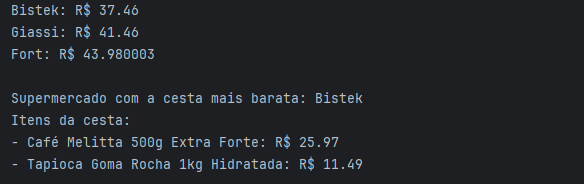
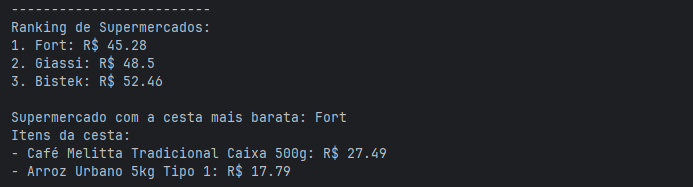
Atualiza a seção 'Demonstração de Uso' do relatório do projeto 2

diff --git a/relatorio-projeto2.md b/relatorio-projeto2.md
@@ -153,14 +153,16 @@ Uma outra alternativa para executar o programa é utilizar este comando no termi
 ./gradlew run
 ```
 
-
-
 ## Demonstração de Uso
 
-Cria uma cesta e adiciona alguns produtos:
+Adiciona alguns produtos na cesta:
 
 <img src="/img/exemplo-parte-1.png">
 
 Saída esperada:
 
 <img src="/img/exemplo-parte-2.png">
+
+O arquivo cache.txt é gerado ou atualizado na raiz do projeto Gradle:
+
+<img src="/img/exemplo-parte-3.png">
